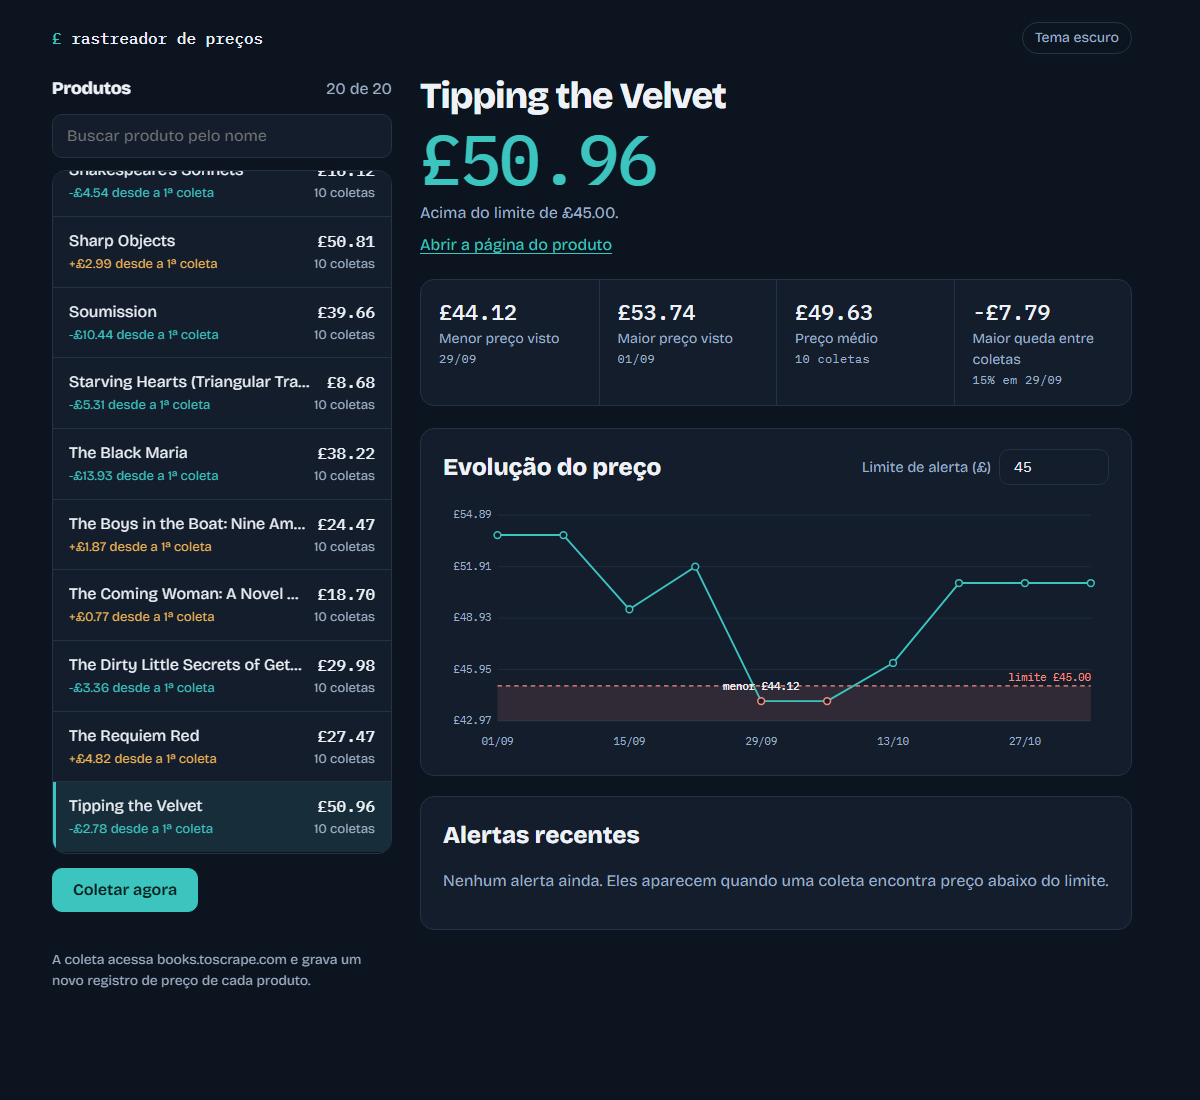
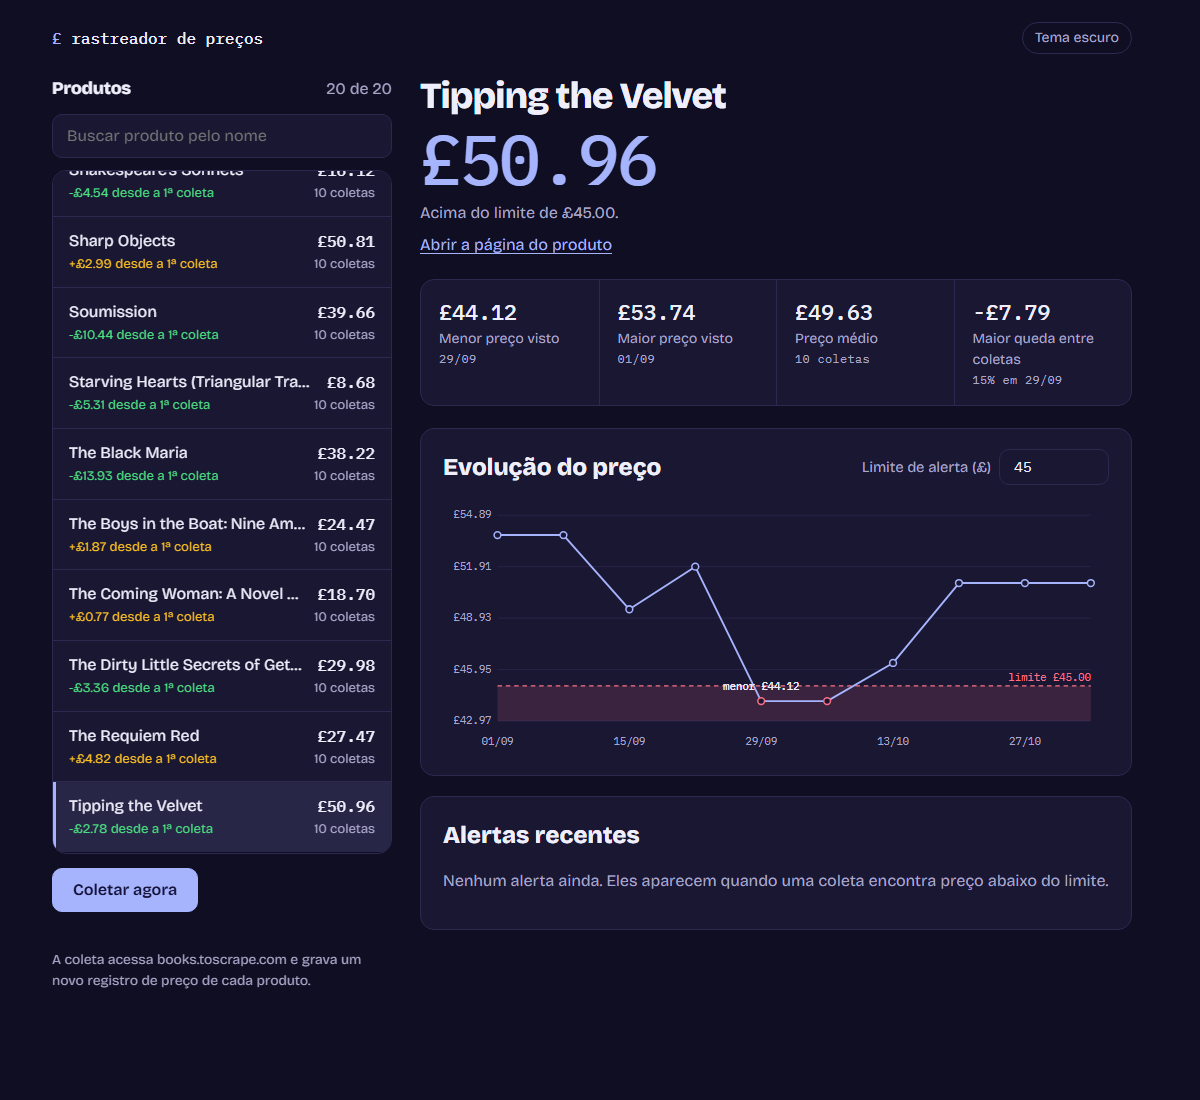
Troca a paleta do painel do rastreador-precos para indigo, distinta do encurtador-url
Tokens de cor claro e escuro novos (indigo, verde para quedas, rosa para alertas, ambar para altas), hover da lista com tom do indigo e capturas de tela regeneradas.

diff --git a/rastreador-precos/src/static/style.css b/rastreador-precos/src/static/style.css
@@ -1,30 +1,31 @@
 /* Rastreador de preços — painel web */
 :root {
-  --bg: #eef2f7;
+  /* Paleta própria do rastreador: índigo sobre cinza-lavanda (o encurtador usa verde-azulado). */
+  --bg: #f4f3f9;
   --surface: #ffffff;
-  --ink: #101828;
-  --ink-soft: #475467;
-  --line: #d9e0ea;
-  --accent: #0e7c7b;
+  --ink: #1b1740;
+  --ink-soft: #5a5778;
+  --line: #dedbeb;
+  --accent: #4338ca;
   --accent-ink: #ffffff;
-  --alerta: #b42318;
-  --alerta-fundo: rgba(180, 35, 24, 0.09);
-  --queda: #0e7c7b;
-  --alta: #b54708;
+  --alerta: #be123c;
+  --alerta-fundo: rgba(190, 18, 60, 0.08);
+  --queda: #15803d;
+  --alta: #b45309;
   --font: "Bricolage Grotesque", "Segoe UI", system-ui, sans-serif;
   --mono: "IBM Plex Mono", ui-monospace, "Cascadia Mono", Consolas, monospace;
 }
 @media (prefers-color-scheme: dark) {
   :root:not([data-theme="light"]) {
-    --bg: #0c1420; --surface: #131d2c; --ink: #eef2f7; --ink-soft: #9fb0c6; --line: #243247;
-    --accent: #3cc4bf; --accent-ink: #06201f; --alerta: #ff8a7a; --alerta-fundo: rgba(255, 138, 122, 0.12);
-    --queda: #3cc4bf; --alta: #f0b455;
+    --bg: #100e22; --surface: #1a1733; --ink: #efeefb; --ink-soft: #a9a6c9; --line: #2c2850;
+    --accent: #a5b4fc; --accent-ink: #15123b; --alerta: #fb7185; --alerta-fundo: rgba(251, 113, 133, 0.14);
+    --queda: #4ade80; --alta: #fbbf24;
   }
 }
 :root[data-theme="dark"] {
-  --bg: #0c1420; --surface: #131d2c; --ink: #eef2f7; --ink-soft: #9fb0c6; --line: #243247;
-  --accent: #3cc4bf; --accent-ink: #06201f; --alerta: #ff8a7a; --alerta-fundo: rgba(255, 138, 122, 0.12);
-  --queda: #3cc4bf; --alta: #f0b455;
+  --bg: #100e22; --surface: #1a1733; --ink: #efeefb; --ink-soft: #a9a6c9; --line: #2c2850;
+  --accent: #a5b4fc; --accent-ink: #15123b; --alerta: #fb7185; --alerta-fundo: rgba(251, 113, 133, 0.14);
+  --queda: #4ade80; --alta: #fbbf24;
 }
 
 * { box-sizing: border-box; }
@@ -58,7 +59,7 @@ a { color: var(--accent); text-underline-offset: 3px; }
 .lista { margin-top: 12px; background: var(--surface); border: 1px solid var(--line); border-radius: 14px; max-height: 68vh; overflow: auto; }
 .item { display: grid; grid-template-columns: 1fr auto; gap: 2px 12px; width: 100%; padding: 12px 16px; border: 0; border-top: 1px solid var(--line); background: transparent; color: inherit; font: inherit; text-align: left; cursor: pointer; }
 .item:first-child { border-top: 0; }
-.item:hover { background: var(--alerta-fundo); }
+.item:hover { background: color-mix(in srgb, var(--accent) 8%, transparent); }
 .item[aria-current="true"] { box-shadow: inset 3px 0 0 var(--accent); background: color-mix(in srgb, var(--accent) 10%, transparent); }
 .item .nome { overflow: hidden; text-overflow: ellipsis; white-space: nowrap; font-weight: 500; }
 .item .preco { font-family: var(--mono); font-weight: 500; }
